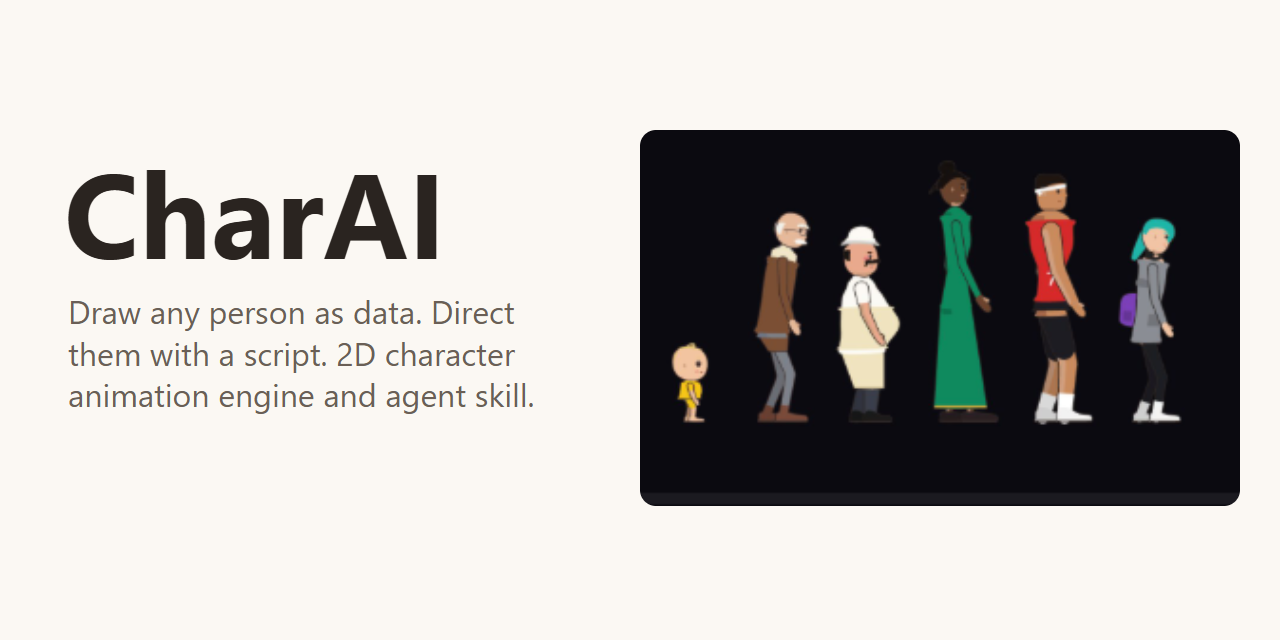
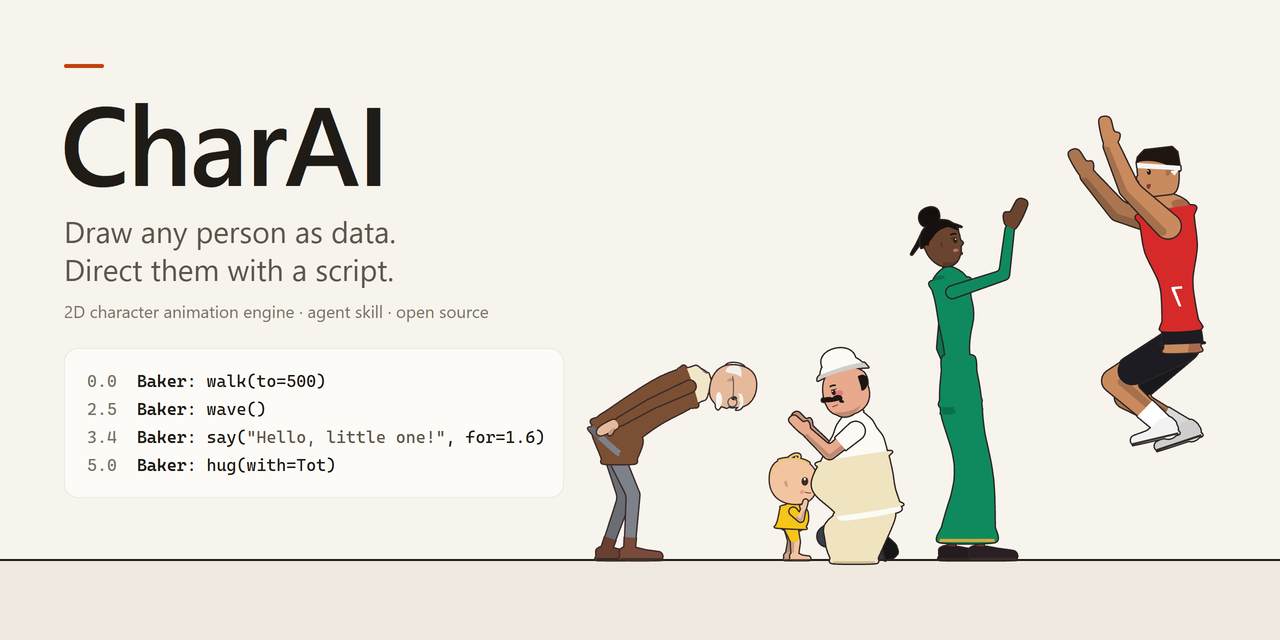
New social preview image
The link preview shown by GitHub, X, LinkedIn, Slack and Discord: the
wordmark and tagline beside four lines of a real .char script, and four
characters acting on the ink ground line, in the warm paper palette.
Rebuilt with docs/img/src/social-build.cjs.

diff --git a/docs/img/src/social.html b/docs/img/src/social.html
@@ -1,9 +1,23 @@
-<!doctype html><meta charset="utf-8"><style>
-html,body{margin:0;width:1280px;height:640px;background:#fbf8f3;color:#2a2420;font-family:system-ui,Segoe UI,sans-serif;overflow:hidden}
-h1{position:absolute;left:64px;top:150px;margin:0;font-size:120px;line-height:1}
-p{position:absolute;left:68px;top:290px;width:520px;margin:0;font-size:32px;line-height:1.3;color:#6a5f56}
-.panel{position:absolute;left:640px;top:130px;width:600px;height:376px;border-radius:16px;background:#0b0b10 url(../cast-sheet.png) -27px -76px/3097px 1328px no-repeat}
+<!doctype html><!-- Rebuild: node docs/img/src/social-build.cjs (draws films/social, then shoots this page at 2x and downsizes to 1280x640) -->
+<meta charset="utf-8"><title>CharAI social preview</title><style>
+html,body{margin:0;width:1280px;height:640px;overflow:hidden;background:#f7f4ee;color:#1f1b16;font-family:system-ui,"Segoe UI",Helvetica,Arial,sans-serif}
+.floor{position:absolute;left:0;right:0;top:560px;bottom:0;background:#efe9df}
+.line{position:absolute;left:0;right:0;top:559px;height:2px;background:#1f1b16}
+.cast{position:absolute;left:0;top:0;width:1280px;height:640px}
+.bar{position:absolute;left:64px;top:64px;width:40px;height:4px;border-radius:2px;background:#c2410c}
+h1{position:absolute;left:60px;top:78px;margin:0;font-size:112px;line-height:1.1;font-weight:600;letter-spacing:-2.5px}
+.tag{position:absolute;left:64px;top:212px;width:560px;margin:0;font-size:30px;line-height:1.28;color:#5e554a}
+.sub{position:absolute;left:64px;top:300px;margin:0;font-size:17px;color:#7b7266;white-space:nowrap}
+.code{position:absolute;left:64px;top:348px;box-sizing:border-box;width:500px;padding:18px 22px;border-radius:14px;background:#fdfbf7;border:1px solid rgba(31,27,22,.08);font:17px/28px ui-monospace,"Cascadia Code",Consolas,monospace;color:#1f1b16;white-space:pre}
+.code .t{color:#7b7266}.code .a{font-weight:600}.code .s{color:#5e554a}
 </style>
-<h1>CharAI</h1><p>Draw any person as data. Direct them with a script. 2D character animation engine and agent skill.</p>
-<div class="panel"></div>
+<div class="floor"></div><div class="line"></div>
+<div class="bar"></div><h1>CharAI</h1>
+<p class="tag">Draw any person as data.<br>Direct them with a script.</p>
+<p class="sub">2D character animation engine · agent skill · open source</p>
+<div class="code"><span class="t">0.0</span>  <span class="a">Baker</span>: walk(to=500)
+<span class="t">2.5</span>  <span class="a">Baker</span>: wave()
+<span class="t">3.4</span>  <span class="a">Baker</span>: say(<span class="s">"Hello, little one!"</span>, for=1.6)
+<span class="t">5.0</span>  <span class="a">Baker</span>: hug(with=Tot)</div>
+<img class="cast" src="../../../films/social/cast@2x.png">
 <script>window.seek=function(){}</script>

diff --git a/films/social/skins/baker.js b/films/social/skins/baker.js
@@ -1,0 +1,27 @@
+(function (g) {
+  (g.CharSkins = g.CharSkins || {}).baker = { name: 'baker', extends: 'mannequin',
+    build:   { heads: 5.5, belly: 0.6, chest: 1.05, waist: 1.0, hips: 0.98, seat: 0.1, arm: 0.17, leg: 0.3, neck: 0.14, headWidth: 0.95 },
+    motion:  { weight: 0.95, energy: 0.35 },
+    palette: { skin: '#e8a98c', hair: '#1c1612', shoe: '#1a1a1a', suit: '#fbfaf5', white: '#fbfaf5', cream: '#efe3c0', check: '#3a3d4a', rose: '#e07a7a', band: '#c9b88a' },
+    parts:   {
+      head: [
+        { d: 'M-0.45 0.55C-0.5 0.2 -0.3 -0.02 0.05 -0.02C0.3 -0.02 0.5 0.1 0.52 0.3C0.56 0.5 0.52 0.85 0.3 0.97C0.1 1.03 -0.3 1.02 -0.45 0.8C-0.5 0.7 -0.46 0.6 -0.45 0.55Z', fill: 'skin' },
+        { d: 'M-0.2 0.12C0 -0.12 0.3 -0.08 0.4 0.12C0.2 0.04 -0.05 0.04 -0.2 0.12Z', fill: 'skinShade' },
+        { d: 'M0.2 0.42a0.1 0.07 0 1 0 0.001 0Z', fill: 'rose' },
+        { swap: 'brow' }, { swap: 'eye' }, { swap: 'mouth' },
+        { d: 'M0.56 0.4C0.5 0.34 0.3 0.34 0.16 0.34C0.1 0.46 0.28 0.5 0.36 0.44C0.44 0.5 0.62 0.5 0.6 0.42C0.58 0.4 0.58 0.4 0.56 0.4Z', fill: 'hair' },
+        { d: 'M0.2 0.36C0.1 0.3 0.12 0.24 0.2 0.28C0.26 0.3 0.24 0.34 0.2 0.36Z', fill: 'hair' } ],
+      hair: [
+        { d: 'M-0.48 0.7C-0.5 0.5 -0.4 0.4 -0.3 0.42C-0.32 0.55 -0.3 0.65 -0.3 0.75C-0.4 0.78 -0.45 0.75 -0.48 0.7Z', fill: 'hair' },
+        { d: 'M-0.36 0.92C-0.2 1.02 0.1 1.04 0.32 0.95C0.1 0.97 -0.15 0.95 -0.36 0.92Z', fill: 'hairShade' },
+        { d: 'M-0.52 0.9C-0.5 1.02 -0.3 1.3 0 1.3C0.3 1.3 0.5 1.1 0.5 0.9C0.2 1.0 -0.2 1.0 -0.52 0.9Z', fill: 'white' },
+        { d: 'M-0.58 0.88C-0.3 0.96 0.2 0.96 0.58 0.88C0.58 0.96 0.5 1.0 0.4 1.0C0 1.05 -0.4 1.05 -0.52 1.0Z', fill: 'whiteShade' },
+        { d: 'M-0.35 1.2C-0.3 1.55 0.4 1.55 0.4 1.2C0.45 1.0 -0.4 1.0 -0.35 1.2Z', fill: 'white' } ],
+      torso: [
+        { cover: true, loose: 0.03, fill: 'white' },
+        { cover: [0, 0.62], loose: 0.04, fill: 'cream' } ],
+      skirt: { skirt: true, length: 0.55, flare: 0.1, top: 0.0, loose: 0.03, fill: 'cream', hem: { fill: 'band', w: 0.04 } },
+      arm: { cover: [0, 0.3], flat: 'end', loose: 0.03, fill: 'white' },
+      leg: [ { cover: [0, 1], loose: 0.02, fill: 'check' } ] },
+    chains:  { } };
+})(typeof self !== 'undefined' ? self : this);

diff --git a/films/social/skins/skye.js b/films/social/skins/skye.js
@@ -1,0 +1,28 @@
+(function (g) {
+  (g.CharSkins = g.CharSkins || {}).skye = { name: 'skye', extends: 'mannequin',
+    build:   { heads: 6.2, chest: 0.7, waist: 0.55, hips: 0.66, arm: 0.1, leg: 0.17 },
+    motion:  { energy: 0.45, weight: 0.3, posture: 0.5 },
+    palette: { skin: '#f0c4a4', suit: '#f0c4a4', suitShade: '#d79f80', hair: '#1fb5a8', hoodie: '#8a8d94', jeans: '#1d1d24', shoe: '#f4f4f4', pack: '#7b3fb8', cord: '#222222', phones: '#222222' },
+    parts:   {
+      hairBack: [ { d: 'M-0.42 0.5C-0.5 0.9 -0.3 1.05 0 1.05C0.3 1.05 0.48 0.9 0.45 0.62C0.3 0.8 0 0.75 -0.2 0.55Z', fill: 'hair' } ],
+      hair: [
+        { d: 'M-0.45 0.5C-0.52 1 -0.2 1.08 0.1 1.06C0.4 1.03 0.52 0.85 0.5 0.62C0.45 0.5 0.4 0.5 0.36 0.6C0.3 0.75 0.1 0.82 -0.1 0.78C-0.3 0.72 -0.4 0.6 -0.45 0.5Z', fill: 'hair' },
+        { d: 'M-0.2 0C-0.2 -0.2 0.2 -0.2 0.2 0', stroke: 'phones', w: 0.05 },
+        { d: 'M-0.25 0.05L-0.05 0.05L-0.05 -0.15L-0.25 -0.15Z', fill: 'phones' },
+        { d: 'M0.5 0.62C0.46 0.5 0.4 0.42 0.34 0.38C0.3 0.5 0.3 0.6 0.36 0.66Z', fill: 'hair' } ],
+      torso: [
+        { cover: [-0.08, 1], loose: 0.06, fill: 'hoodie' },
+        { d: 'M0.0 0.35L0.4 0.35L0.36 0.7L0.04 0.7Z', fill: 'hoodieShade' },
+        { d: 'M-0.35 1.5C-0.5 1.6 -0.4 1.8 -0.2 1.75C0 1.7 0.1 1.6 0.1 1.5Z', fill: 'hoodieShade' } ],
+      pelvis: [ { d: 'M-0.4 0.1L0.4 0.1L0.4 -0.15L-0.4 -0.15Z', fill: 'jeans' } ],
+      arm: { cover: [0, 0.95], loose: 0.04, fill: 'hoodie' },
+      leg: [ { cover: [0, 1], loose: 0.01, fill: 'jeans' },
+             { cover: [0.82, 1.03], loose: 0.05, flat: 'start', fill: 'shoe' } ]
+    },
+    chains:  {
+      locks: { bone: 'head', at: [-0.3, 0.6], rest: 250, seg: [0.35, 0.3, 0.25],
+        width: [0.34, 0.34, 0.26, 0.14], fill: 'hair', layer: 'back', stiff: 0.2 },
+      pack: { bone: 'torso', at: [-0.35, 1.2], rest: 180, seg: [0.07], width: [0.1, 0.1], fill: 'pack', layer: 'back', stiff: 0.5,
+        end: [ { d: 'M0.05 0.1C-0.25 0.1 -0.4 0 -0.4 -0.2L-0.4 -0.7C-0.4 -0.85 -0.25 -0.9 0.05 -0.9Z', fill: 'pack' }, { d: 'M-0.05 -0.45L-0.3 -0.45L-0.3 -0.75L-0.05 -0.75Z', fill: 'packShade' } ], endUpright: true }
+    } };
+})(typeof self !== 'undefined' ? self : this);

diff --git a/films/social/skins/gramps.js b/films/social/skins/gramps.js
@@ -1,0 +1,29 @@
+(function (g) {
+  (g.CharSkins = g.CharSkins || {}).gramps = { name: 'gramps', extends: 'mannequin',
+    build:   { heads: 6.5, belly: 0.1, chest: 0.8, waist: 0.7, arm: 0.1, leg: 0.17, neck: 0.1 },
+    motion:  { age: 'elder', posture: 0.8, energy: 0.25, weight: 0.3 },
+    palette: { skin: '#e6b99b', hair: '#f1f1ec', shoe: '#7a4a3a', suit: '#7d8189', cardi: '#7b4f33', shirt: '#f1e6c8', trou: '#7d8189',
+               outline: '#3a2a2a', white: '#ffffff', glass: '#4a4a52', stache: '#f6f6f2' },
+    parts:   {
+      hairBack: [ { d: 'M-0.1 0.78C-0.38 0.82 -0.52 0.7 -0.5 0.45C-0.48 0.25 -0.35 0.22 -0.2 0.3C-0.28 0.45 -0.2 0.65 -0.1 0.78Z', fill: 'hair' } ],
+      head: [
+        { d: 'M-0.45 0.5C-0.45 0.15 -0.2 0 0.1 0C0.28 0 0.34 0.05 0.4 0.12C0.5 0.2 0.46 0.3 0.5 0.4C0.5 0.44 0.46 0.45 0.44 0.47C0.46 0.5 0.46 0.55 0.46 0.6C0.46 0.85 0.25 1 0 1C-0.28 1 -0.45 0.85 -0.45 0.5Z', fill: 'skin' },
+        { d: 'M-0.1 0.5C-0.18 0.55 -0.18 0.36 -0.08 0.34Z', fill: 'skinShade' },
+        { swap: 'brow' }, { swap: 'eye' }, { swap: 'mouth' } ],
+      hair: [
+        { d: 'M-0.45 0.55C-0.45 0.38 -0.38 0.28 -0.28 0.3C-0.26 0.42 -0.28 0.55 -0.2 0.65C-0.3 0.66 -0.42 0.64 -0.45 0.55Z', fill: 'hair' },
+        { d: 'M0.16 0.62C0.3 0.74 0.46 0.7 0.52 0.62C0.52 0.78 0.3 0.8 0.16 0.7Z', fill: 'hair' },
+        { d: 'M0.2 0.24C0.3 0.32 0.5 0.3 0.56 0.22C0.52 0.14 0.4 0.17 0.3 0.15C0.2 0.14 0.14 0.2 0.2 0.24Z', fill: 'stache' },
+        { d: 'M0.265 0.52A0.1 0.1 0 1 0 0.465 0.52A0.1 0.1 0 1 0 0.265 0.52Z', stroke: 'glass', w: 0.025 },
+        { d: 'M0.265 0.52C0.1 0.52 -0.1 0.5 -0.2 0.46', stroke: 'glass', w: 0.02 }
+      ],
+      torso: [
+        { cover: [0.85, 1.08], loose: 0.01, fill: 'shirt' },
+        { cover: [0, 0.92], loose: 0.04, fill: 'cardi' } ],
+      skirt: { skirt: true, length: 0.2, top: 0.3, flare: 0.1, fill: 'cardi' },
+      arm: { cover: [0, 0.95], loose: 0.03, fill: 'cardi' },
+      leg: [ { cover: [0, 1], loose: 0.02, fill: 'trou' },
+             { cover: [0.88, 1.02], loose: 0.03, flat: 'start', fill: 'shoe' } ]
+    },
+    chains:  { } };
+})(typeof self !== 'undefined' ? self : this);

diff --git a/films/social/skins/tot.js b/films/social/skins/tot.js
@@ -1,0 +1,26 @@
+(function (g) {
+  (g.CharSkins = g.CharSkins || {}).tot = { name: 'tot', extends: 'mannequin',
+    build:   { heads: 2.3 },
+    motion:  { age: 'baby', energy: 0.8, weight: 0.2 },
+    palette: { skin: '#f2c4a0', hair: '#e8c97a', shoe: '#f2c4a0', romper: '#f5c518', blush: '#ee8f84', outline: '#3a2a2a', white: '#ffffff' },
+    parts:   {
+      head: [
+        { d: 'M-0.5 0.55C-0.5 0.18 -0.25 0 0.08 0C0.4 0 0.54 0.2 0.54 0.5C0.54 0.82 0.3 1 -0.02 1C-0.35 1 -0.5 0.85 -0.5 0.55Z', fill: 'skin' },
+        { d: 'M-0.12 0.5C-0.2 0.55 -0.2 0.38 -0.1 0.36Z', fill: 'skinShade' },
+        { d: 'M0.2 0.3C0.28 0.34 0.3 0.24 0.22 0.22C0.16 0.22 0.15 0.28 0.2 0.3Z', fill: 'blush', opacity: 0.8 },
+        { swap: 'brow' }, { swap: 'eye' }, { swap: 'mouth' } ],
+      hair: [
+        { d: 'M-0.3 0.95C-0.1 1.02 0.2 1.0 0.35 0.9', stroke: 'hair', w: 0.045 },
+        { d: 'M-0.1 0.98C0 1.1 0.15 1.12 0.15 1.04C0.15 0.98 0.06 0.98 0.07 1.03', stroke: 'hair', w: 0.045 },
+        { d: 'M-0.35 0.85C-0.45 0.8 -0.47 0.7 -0.45 0.62', stroke: 'hair', w: 0.04 }
+      ],
+      torso: { cover: true, loose: 0.03, fill: 'romper' },
+      arm: { cover: [0, 0.3], flat: 'end', fill: 'romper' },
+      leg: { cover: [0, 0.35], fill: 'romper' }
+    },
+    swaps: { eye: {
+      open: [ { d: 'M0.2 0.5A0.075 0.095 0 1 0 0.35 0.5A0.075 0.095 0 1 0 0.2 0.5Z', fill: 'outline' }, { d: 'M0.25 0.55A0.022 0.03 0 1 0 0.295 0.55A0.022 0.03 0 1 0 0.25 0.55Z', fill: 'white' } ],
+      closed: [ { d: 'M0.2 0.48C0.24 0.44 0.31 0.44 0.35 0.48', stroke: 'outline', w: 0.045 } ],
+      happy: [ { d: 'M0.2 0.47C0.24 0.54 0.31 0.54 0.35 0.47', stroke: 'outline', w: 0.045 } ] } },
+    chains:  { } };
+})(typeof self !== 'undefined' ? self : this);

diff --git a/films/social/skins/titan.js b/films/social/skins/titan.js
@@ -1,0 +1,26 @@
+(function (g) {
+  (g.CharSkins = g.CharSkins || {}).titan = { name: 'titan', extends: 'mannequin',
+    build:   { heads: 7.5, muscle: 1, shoulders: 1.1, chest: 1.05, waist: 0.7, neck: 0.14 },
+    motion:  { weight: 0.45, energy: 1 },
+    palette: { skin: '#c98a5e', suit: '#c98a5e', hair: '#1f1612', shoe: '#f2f2f2', vest: '#d62a2a', shorts: '#1c1c22', sock: '#ffffff', band: '#f5f5f5', num: '#ffffff', suitShade: '#a8694a' },
+    parts:   {
+      head: [
+        { d: 'M-0.38 0.55C-0.4 0.85 -0.25 1 0.05 1C0.35 1 0.5 0.85 0.5 0.6L0.5 0.3C0.5 0.12 0.42 0 0.3 0L-0.15 0C-0.3 0 -0.36 0.2 -0.38 0.55Z', fill: 'skin' },
+        { d: 'M0.5 0.5C0.55 0.45 0.55 0.4 0.5 0.36Z', fill: 'skin' },
+        { d: 'M-0.1 0.5C-0.12 0.58 -0.15 0.6 -0.2 0.6C-0.25 0.5 -0.2 0.4 -0.1 0.42Z', fill: 'skinShade' },
+        { swap: 'brow' }, { swap: 'eye' }, { swap: 'mouth' } ],
+      hair: [
+        { d: 'M-0.42 0.5L-0.4 0.92L-0.3 1.04L0.3 1.04L0.46 0.9L0.5 0.78C0.4 0.82 0.25 0.8 0.1 0.76C-0.1 0.7 -0.25 0.6 -0.3 0.45Z', fill: 'hair' },
+        { d: 'M-0.43 0.6L0.5 0.78L0.5 0.66L-0.42 0.5Z', fill: 'band' },
+        { d: 'M-0.43 0.55L-0.2 0.5L-0.28 0.4Z', fill: 'band' }
+      ],
+      torso: [
+        { cover: [0, 0.12], loose: 0.04, fill: 'shorts' },
+        { cover: [0.1, 0.98], loose: 0.03, fill: 'vest' },
+        { d: 'M-0.12 1.15L0.14 1.15L0.14 1.1L0.0 0.75L-0.06 0.75L0.06 1.1L-0.12 1.1Z', fill: 'num' }
+      ],
+      leg: [ { cover: [0, 0.38], loose: 0.03, fill: 'shorts' },
+             { cover: [0.8, 1.02], loose: 0.02, flat: 'start', fill: 'sock' } ]
+    },
+    chains:  { } };
+})(typeof self !== 'undefined' ? self : this);

diff --git a/films/social/skins/vera.js b/films/social/skins/vera.js
@@ -1,0 +1,17 @@
+(function (g) {
+  (g.CharSkins = g.CharSkins || {}).vera = { name: 'vera', extends: 'mannequin',
+    build:   { heads: 7.6, chest: 0.72, waist: 0.52, hips: 0.78, arm: 0.1, leg: 0.16, neck: 0.085, bust: 0.06 },
+    motion:  { weight: 0.1, energy: 0.5 },
+    palette: { skin: '#6b4430', hair: '#16100e', shoe: '#2a2024', suit: '#0f8a5f', suitShade: '#0b6f4c', emerald: '#0f8a5f', gold: '#d9a93a' },
+    parts:   {
+      hair: [
+        { d: 'M-0.5 0.5C-0.55 1.05 0 1.12 0.45 0.82C0.2 0.9 -0.05 0.88 -0.2 0.7C-0.3 0.6 -0.4 0.5 -0.5 0.5Z', fill: 'hair' },
+        { d: 'M-0.3 0.95C-0.45 0.95 -0.5 1.2 -0.36 1.3C-0.2 1.4 0 1.35 0 1.2C0.02 1.0 -0.15 0.9 -0.3 0.95Z', fill: 'hair' },
+        { d: 'M-0.3 1.2C-0.2 1.28 -0.05 1.28 0 1.2C-0.1 1.22 -0.2 1.2 -0.3 1.2Z', fill: 'hairShade' } ],
+      torso: { cover: [0.0, 1.0], fill: 'emerald' },
+      arm: { cover: [0, 0.97], loose: 0.03, fill: 'emerald' },
+      skirt: { skirt: true, length: 0.93, flare: 0.12, fill: 'emerald', hem: { fill: 'gold', w: 0.07 } } },
+    chains:  {
+      strand: { bone: 'head', at: [-0.4, 0.8], rest: 230, seg: [0.25, 0.25], width: [0.07, 0.06, 0.03], fill: 'hair', stiff: 0.15 },
+      earring: { bone: 'head', at: [0.0, 0.42], rest: 270, seg: [0.18, 0.15], width: [0.04, 0.07, 0.07], fill: 'gold', stiff: 0.1 } } };
+})(typeof self !== 'undefined' ? self : this);
